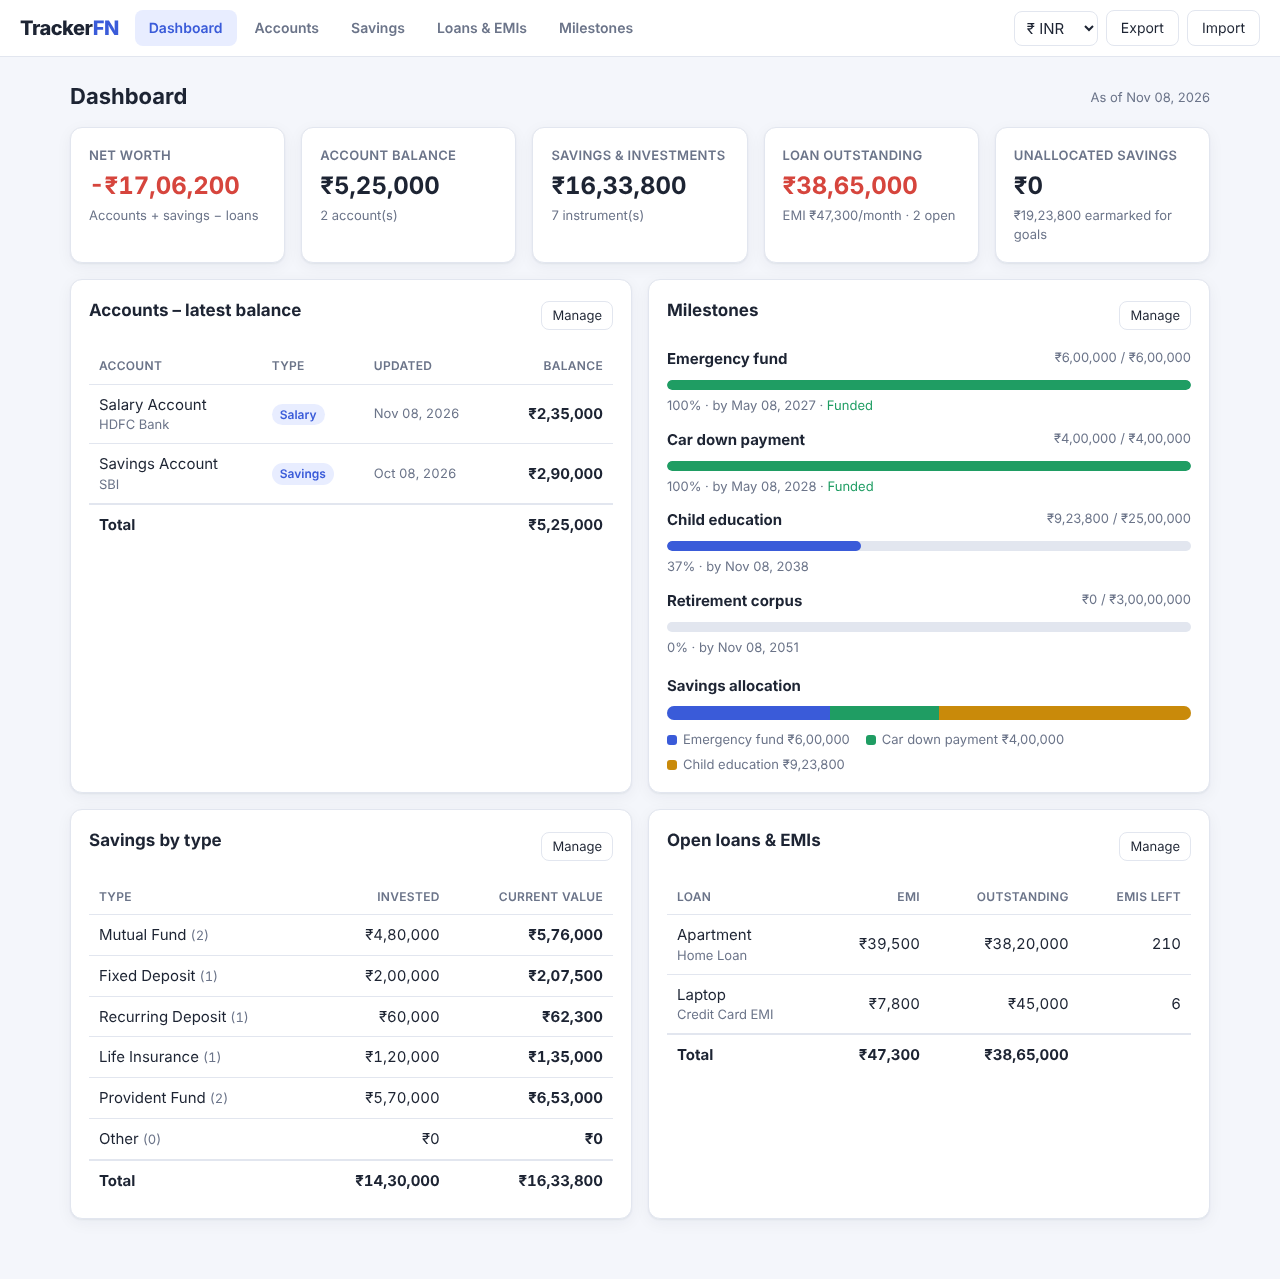
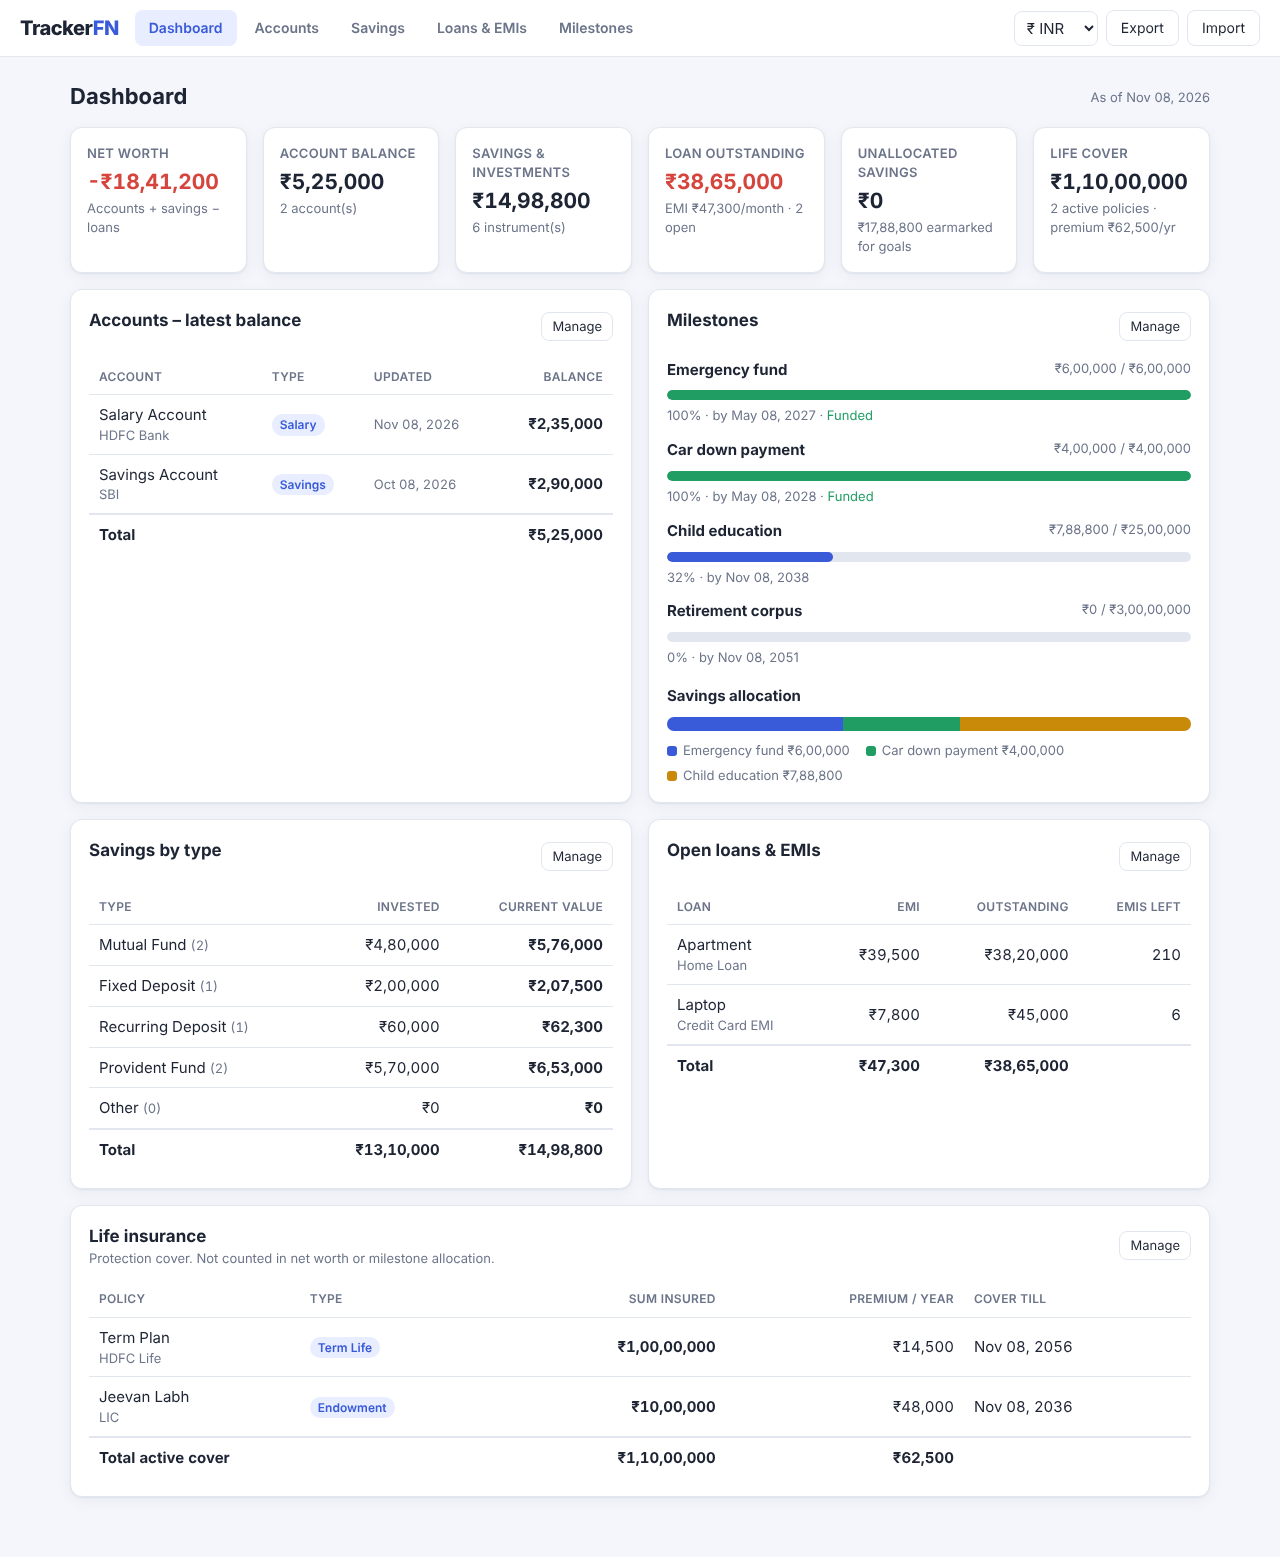
Track life insurance by sum insured, separate from savings
Life insurance policies now have their own model (policy type, sum
insured, premium and frequency, cover end date, nominee) instead of
invested/current value. They are listed in their own section and as a
Life cover card on the dashboard, and are excluded from savings totals,
net worth and the milestone allocation pool. Existing life insurance
entries are migrated on load and their goal allocations released.

Claude-Session: https://claude.ai/code/session_01LZqS9V3qWEPytGiKJB8D8b

diff --git a/js/app.js b/js/app.js
@@ -24,9 +24,27 @@
   function normalize(data) {
     const base = L.emptyState();
     const s = { ...base, ...data, settings: { ...base.settings, ...(data.settings || {}) } };
-    for (const k of ['accounts', 'savings', 'loans', 'milestones']) if (!Array.isArray(s[k])) s[k] = [];
+    for (const k of ['accounts', 'savings', 'insurance', 'loans', 'milestones']) if (!Array.isArray(s[k])) s[k] = [];
+    // Older data kept life insurance as a savings instrument; move it to policies.
+    for (const inv of s.savings.filter((x) => x.type === 'Life Insurance')) {
+      const old = [inv.invested && `invested ${inv.invested}`, inv.currentValue && `value ${inv.currentValue}`].filter(Boolean).join(', ');
+      s.insurance.push({
+        id: inv.id,
+        policyType: 'Other',
+        name: inv.name,
+        provider: inv.provider,
+        sumInsured: '',
+        premium: inv.monthly || '',
+        premiumFrequency: 'Monthly',
+        startDate: inv.startDate || '',
+        endDate: inv.maturityDate || '',
+        notes: [inv.notes, old && `Moved from savings (${old}). Please enter the sum insured.`].filter(Boolean).join(' '),
+      });
+    }
+    s.savings = s.savings.filter((x) => x.type !== 'Life Insurance');
     s.accounts.forEach((a) => { if (!Array.isArray(a.entries)) a.entries = []; });
     s.milestones.forEach((m) => { if (!m.allocations || typeof m.allocations !== 'object') m.allocations = {}; });
+    L.pruneAllocations(s);
     return s;
   }
 
@@ -177,7 +195,8 @@
 
   function renderDashboard() {
     const s = L.summary(state);
-    const isEmpty = !state.accounts.length && !state.savings.length && !state.loans.length && !state.milestones.length;
+    const isEmpty = !state.accounts.length && !state.savings.length && !state.insurance.length && !state.loans.length && !state.milestones.length;
+    const ins = L.insuranceTotals(state.insurance);
 
     let html = `<div class="section-head"><h1>Dashboard</h1><span class="muted small">As of ${fmtDate(L.todayISO())}</span></div>`;
 
@@ -197,6 +216,7 @@
       ${kpi('Savings & investments', money(s.savingsTotal), `${state.savings.length} instrument(s)`)}
       ${kpi('Loan outstanding', money(s.loanOutstanding), `EMI ${money(s.monthlyEmi)}/month · ${s.openLoanCount} open`, s.loanOutstanding ? 'neg' : '')}
       ${kpi('Unallocated savings', money(s.unallocated), `${money(s.allocated)} earmarked for goals`, s.unallocated < 0 ? 'neg' : '')}
+      ${kpi('Life cover', money(ins.sumInsured), `${ins.count} active polic${ins.count === 1 ? 'y' : 'ies'} · premium ${money(ins.annualPremium)}/yr`)}
     </div>`;
 
     // Accounts + milestones
@@ -248,6 +268,15 @@
       html += `</tbody><tfoot><tr><td>Total</td><td class="right">${money(s.monthlyEmi)}</td><td class="right">${money(s.loanOutstanding)}</td><td></td></tr></tfoot></table></div>`;
     } else html += `<div class="empty">No open loans or EMIs. 🎉</div>`;
     html += `</div></div>`;
+
+    html += `<div class="card" style="margin-top:16px"><div class="section-head"><div><h2 style="margin:0">Life insurance</h2>
+      <div class="muted small">Protection cover. Not counted in net worth or milestone allocation.</div></div><button class="sm" data-action="go" data-tab="savings">Manage</button></div>`;
+    if (state.insurance.length) {
+      html += `<div class="table-wrap"><table><thead><tr><th>Policy</th><th>Type</th><th class="right">Sum insured</th><th class="right">Premium / year</th><th>Cover till</th></tr></thead><tbody>`;
+      for (const p of state.insurance) html += insuranceRowShort(p);
+      html += `</tbody><tfoot><tr><td colspan="2">Total active cover</td><td class="right">${money(ins.sumInsured)}</td><td class="right">${money(ins.annualPremium)}</td><td></td></tr></tfoot></table></div>`;
+    } else html += `<div class="empty">No life insurance policies added.</div>`;
+    html += `</div>`;
 
     return html;
   }
@@ -376,7 +405,9 @@
     let html = `<div class="section-head"><div><h1>Savings &amp; Investments</h1><div class="muted small">Total value ${money(total)} · invested ${money(invested)} · gain ${signedMoney(total - invested)}</div></div>
       <button class="primary" data-action="add-savings">+ Add savings</button></div>`;
 
-    html += `<div class="grid kpis">${L.SAVINGS_TYPES.map((t) => kpi(t, money(byType[t].value), `${byType[t].count} holding(s)`)).join('')}</div>`;
+    const ins = L.insuranceTotals(state.insurance);
+    html += `<div class="grid kpis">${L.SAVINGS_TYPES.map((t) => kpi(t, money(byType[t].value), `${byType[t].count} holding(s)`)).join('')}
+      ${kpi('Life cover', money(ins.sumInsured), `${ins.count} active · not in savings total`)}</div>`;
 
     for (const type of L.SAVINGS_TYPES) {
       const items = state.savings.filter((s) => s.type === type);
@@ -390,7 +421,7 @@
       for (const s of items) {
         const src = allocBySource['inv:' + s.id];
         html += `<tr><td><b>${esc(s.name)}</b><div class="muted small">${esc(s.provider || '')}${s.updatedOn ? ' · value as of ' + fmtDate(s.updatedOn) : ''}</div></td>
-          <td class="right">${money(s.invested)}</td><td class="right"><b>${money(s.currentValue)}</b></td><td class="right">${signedMoney(L.savingsGain(s))}</td>
+          <td class="right">${money(s.invested)}</td><td class="right"><b>${money(s.currentValue)}</b></td><td class="right nowrap">${signedMoney(L.savingsGain(s))}</td>
           <td class="right">${s.rate !== '' && s.rate != null ? esc(s.rate) + '%' : '—'}</td>
           <td class="right">${L.num(s.monthly) ? money(s.monthly) : '—'}</td>
           <td class="nowrap">${fmtDate(s.maturityDate)}</td>
@@ -401,7 +432,66 @@
       }
       html += `</tbody></table></div>`;
     }
+
+    html += `<div class="section-head"><div><h2 style="margin:0">Life Insurance</h2>
+      <div class="muted small">Tracked by sum insured. Excluded from savings total, net worth and milestone allocation.</div></div>
+      <button class="sm" data-action="add-insurance">+ Add policy</button></div>`;
+    if (!state.insurance.length) {
+      html += `<div class="empty small">No life insurance policies added.</div>`;
+    } else {
+      html += `<div class="card table-wrap"><table><thead><tr><th>Policy</th><th>Type</th><th class="right">Sum insured</th><th class="right">Premium</th>
+        <th class="right">Per year</th><th>Start</th><th>Cover till</th><th>Nominee</th><th></th></tr></thead><tbody>`;
+      for (const p of state.insurance) {
+        const active = L.policyActive(p);
+        html += `<tr><td><b>${esc(p.name)}</b><div class="muted small">${esc(p.provider || '')}${p.policyNumber ? ' · #' + esc(p.policyNumber) : ''}</div>
+            ${p.notes ? `<div class="muted small">${esc(p.notes)}</div>` : ''}</td>
+          <td><span class="badge">${esc(p.policyType)}</span>${active ? '' : ' <span class="badge grey">Expired</span>'}</td>
+          <td class="right"><b>${p.sumInsured === '' || p.sumInsured == null ? '<span class="badge warn">enter</span>' : money(p.sumInsured)}</b></td>
+          <td class="right nowrap">${L.num(p.premium) ? `${money(p.premium)} <span class="muted small">${esc(p.premiumFrequency || '')}</span>` : '—'}</td>
+          <td class="right">${L.annualPremium(p) ? money(L.annualPremium(p)) : '—'}</td>
+          <td class="nowrap">${fmtDate(p.startDate)}</td><td class="nowrap">${fmtDate(p.endDate)}</td><td>${esc(p.nominee || '—')}</td>
+          <td class="actions"><button class="sm" data-action="edit-insurance" data-id="${p.id}">Edit</button>
+            <button class="sm danger" data-action="delete-insurance" data-id="${p.id}">✕</button></td></tr>`;
+      }
+      html += `</tbody><tfoot><tr><td colspan="2">Total active cover</td><td class="right">${money(ins.sumInsured)}</td><td></td><td class="right">${money(ins.annualPremium)}</td><td colspan="4"></td></tr></tfoot></table></div>`;
+    }
     return html;
+  }
+
+  function insuranceRowShort(p) {
+    const active = L.policyActive(p);
+    return `<tr class="${active ? '' : 'future'}"><td>${esc(p.name)}<div class="muted small">${esc(p.provider || '')}</div></td>
+      <td><span class="badge">${esc(p.policyType)}</span>${active ? '' : ' <span class="badge grey">Expired</span>'}</td>
+      <td class="right"><b>${p.sumInsured === '' || p.sumInsured == null ? '—' : money(p.sumInsured)}</b></td>
+      <td class="right">${L.annualPremium(p) ? money(L.annualPremium(p)) : '—'}</td><td class="nowrap">${fmtDate(p.endDate)}</td></tr>`;
+  }
+
+  const insuranceFields = [
+    { name: 'policyType', label: 'Policy type', type: 'select', options: L.INSURANCE_TYPES, default: 'Term Life' },
+    { name: 'name', label: 'Policy name', required: true, placeholder: 'e.g. Click2Protect Term Plan' },
+    { name: 'provider', label: 'Insurer', placeholder: 'e.g. HDFC Life / LIC' },
+    { name: 'policyNumber', label: 'Policy number', placeholder: 'optional' },
+    { name: 'sumInsured', label: 'Sum insured', type: 'number', min: 0, required: true },
+    { name: 'premium', label: 'Premium amount', type: 'number', min: 0 },
+    { name: 'premiumFrequency', label: 'Premium frequency', type: 'select', options: Object.keys(L.PREMIUM_FREQUENCIES), default: 'Yearly' },
+    { name: 'nominee', label: 'Nominee', placeholder: 'optional' },
+    { name: 'startDate', label: 'Start date', type: 'date' },
+    { name: 'endDate', label: 'Cover till', type: 'date', hint: 'Policy term end / maturity date' },
+    { name: 'notes', label: 'Notes', type: 'textarea', full: true },
+  ];
+
+  function insuranceForm(existing) {
+    openForm({
+      title: existing ? 'Edit life insurance policy' : 'Add life insurance policy',
+      fields: insuranceFields,
+      values: existing || {},
+      onSubmit: (v) => {
+        if (!v.name) return 'Policy name is required';
+        if (v.sumInsured === '' || v.sumInsured < 0) return 'Enter the sum insured';
+        if (existing) Object.assign(existing, v);
+        else state.insurance.push({ id: L.uid(), ...v });
+      },
+    });
   }
 
   const savingsFields = [
@@ -412,7 +502,7 @@
     { name: 'currentValue', label: 'Current value', type: 'number', min: 0, required: true },
     { name: 'updatedOn', label: 'Value as of', type: 'date', default: L.todayISO() },
     { name: 'rate', label: 'Interest / return (% p.a.)', type: 'number', placeholder: 'optional' },
-    { name: 'monthly', label: 'Monthly contribution', type: 'number', min: 0, hint: 'SIP / RD instalment / premium / PF contribution' },
+    { name: 'monthly', label: 'Monthly contribution', type: 'number', min: 0, hint: 'SIP / RD instalment / PF contribution' },
     { name: 'startDate', label: 'Start date', type: 'date' },
     { name: 'maturityDate', label: 'Maturity date', type: 'date' },
     { name: 'notes', label: 'Notes', type: 'textarea', full: true },
@@ -720,9 +810,12 @@
       inv('Mutual Fund', 'Flexi Cap Fund', 'Parag Parikh', 180000, 214000, { monthly: 10000, startDate: ago(18) }),
       inv('Fixed Deposit', 'FD 1 year', 'ICICI Bank', 200000, 207500, { rate: 7.1, startDate: ago(5), maturityDate: L.addMonths(t, 7) }),
       inv('Recurring Deposit', 'RD 24 months', 'SBI', 60000, 62300, { rate: 6.8, monthly: 5000, startDate: ago(12), maturityDate: L.addMonths(t, 12) }),
-      inv('Life Insurance', 'Endowment Plan', 'LIC', 120000, 135000, { monthly: 4000, maturityDate: L.addMonths(t, 120) }),
       inv('Provident Fund', 'EPF', 'EPFO', 420000, 485000, { rate: 8.25, monthly: 7200 }),
       inv('Provident Fund', 'PPF', 'Post Office', 150000, 168000, { rate: 7.1 }),
+    ];
+    s.insurance = [
+      { id: L.uid(), policyType: 'Term Life', name: 'Term Plan', provider: 'HDFC Life', sumInsured: 10000000, premium: 14500, premiumFrequency: 'Yearly', nominee: 'Spouse', startDate: ago(36), endDate: L.addMonths(t, 360) },
+      { id: L.uid(), policyType: 'Endowment', name: 'Jeevan Labh', provider: 'LIC', sumInsured: 1000000, premium: 4000, premiumFrequency: 'Monthly', startDate: ago(60), endDate: L.addMonths(t, 120) },
     ];
     s.loans = [
       { id: L.uid(), status: 'open', type: 'Home Loan', name: 'Apartment', lender: 'SBI Home Loans', principal: 4500000, outstanding: 3820000, emi: 39500, rate: 8.5, startDate: ago(30), tenureMonths: 240 },
@@ -814,6 +907,16 @@
       const s = find('savings', d.id);
       if (confirm(`Delete "${s.name}"? Any goal allocations from it will be removed.`)) {
         state.savings = state.savings.filter((x) => x.id !== d.id);
+        save();
+      }
+    },
+
+    'add-insurance': () => insuranceForm(null),
+    'edit-insurance': (d) => insuranceForm(find('insurance', d.id)),
+    'delete-insurance': (d) => {
+      const p = find('insurance', d.id);
+      if (confirm(`Delete policy "${p.name}"?`)) {
+        state.insurance = state.insurance.filter((x) => x.id !== d.id);
         save();
       }
     },

diff --git a/js/logic.js b/js/logic.js
@@ -10,10 +10,13 @@
     'Mutual Fund',
     'Fixed Deposit',
     'Recurring Deposit',
-    'Life Insurance',
     'Provident Fund',
     'Other',
   ];
+  // Life insurance is protection, not an asset: tracked by sum insured and
+  // premium, and excluded from net worth and milestone allocation.
+  const INSURANCE_TYPES = ['Term Life', 'Endowment', 'Money Back', 'ULIP', 'Whole Life', 'Other'];
+  const PREMIUM_FREQUENCIES = { Monthly: 12, Quarterly: 4, 'Half-yearly': 2, Yearly: 1, Single: 0 };
   const LOAN_TYPES = ['Home Loan', 'Credit Card EMI', 'Personal Loan', 'Car Loan', 'Other'];
   const PRIORITIES = ['High', 'Medium', 'Low'];
 
@@ -39,6 +42,7 @@
       settings: { currency: 'INR' },
       accounts: [],
       savings: [],
+      insurance: [],
       loans: [],
       milestones: [],
     };
@@ -108,6 +112,26 @@
       bucket.value += num(s.currentValue);
     }
     return out;
+  }
+
+  /* ---------------- Life insurance ---------------- */
+
+  function annualPremium(policy) {
+    const perYear = PREMIUM_FREQUENCIES[policy.premiumFrequency];
+    return num(policy.premium) * (perYear == null ? 1 : perYear);
+  }
+
+  function policyActive(policy, asOf) {
+    return !policy.endDate || policy.endDate >= (asOf || todayISO());
+  }
+
+  function insuranceTotals(policies, asOf) {
+    const active = (policies || []).filter((p) => policyActive(p, asOf));
+    return {
+      count: active.length,
+      sumInsured: active.reduce((s, p) => s + num(p.sumInsured), 0),
+      annualPremium: active.reduce((s, p) => s + annualPremium(p), 0),
+    };
   }
 
   /* ---------------- Loans / EMIs ---------------- */
@@ -291,6 +315,8 @@
   const api = {
     ACCOUNT_TYPES,
     SAVINGS_TYPES,
+    INSURANCE_TYPES,
+    PREMIUM_FREQUENCIES,
     LOAN_TYPES,
     PRIORITIES,
     todayISO,
@@ -303,6 +329,9 @@
     nextSeq,
     savingsGain,
     savingsByType,
+    annualPremium,
+    policyActive,
+    insuranceTotals,
     monthsBetween,
     addMonths,
     loanEndDate,

diff --git a/tests/logic.test.js b/tests/logic.test.js
@@ -101,3 +101,24 @@ test('summary net worth = accounts + savings - open loans', () => {
   const sum = L.summary(s, '2026-06-01');
   assert.equal(sum.netWorth, 100 + 999 + 300 - 400);
 });
+
+test('life insurance: annual premium and active cover totals', () => {
+  assert.equal(L.annualPremium({ premium: 1000, premiumFrequency: 'Monthly' }), 12000);
+  assert.equal(L.annualPremium({ premium: 5000, premiumFrequency: 'Half-yearly' }), 10000);
+  assert.equal(L.annualPremium({ premium: 90000, premiumFrequency: 'Single' }), 0);
+  const policies = [
+    { sumInsured: 10000000, premium: 15000, premiumFrequency: 'Yearly', endDate: '2050-01-01' },
+    { sumInsured: 500000, premium: 2000, premiumFrequency: 'Monthly', endDate: '2020-01-01' }, // expired
+  ];
+  assert.deepEqual(L.insuranceTotals(policies, '2026-06-01'), { count: 1, sumInsured: 10000000, annualPremium: 15000 });
+  assert.ok(!L.SAVINGS_TYPES.includes('Life Insurance'));
+});
+
+test('life insurance is excluded from net worth and allocation pool', () => {
+  const s = sampleState();
+  const before = L.summary(s, '2026-06-01');
+  s.insurance = [{ id: 'p1', policyType: 'Term Life', name: 'Term', sumInsured: 10000000, premium: 12000, premiumFrequency: 'Yearly' }];
+  const after = L.summary(s, '2026-06-01');
+  assert.deepEqual(after, before);
+  assert.ok(!L.allocationSources(s, '2026-06-01').some((x) => x.key.endsWith('p1')));
+});

diff --git a/css/styles.css b/css/styles.css
@@ -140,12 +140,13 @@ select, input, textarea {
 }
 
 .grid { display: grid; gap: 16px; }
-.grid.kpis { grid-template-columns: repeat(auto-fit, minmax(190px, 1fr)); }
+.grid.kpis { grid-template-columns: repeat(auto-fit, minmax(160px, 1fr)); }
 .grid.cards { grid-template-columns: repeat(auto-fill, minmax(300px, 1fr)); }
 .grid.two { grid-template-columns: repeat(auto-fit, minmax(340px, 1fr)); }
 
 .kpi .label { color: var(--muted); font-size: 13px; font-weight: 600; text-transform: uppercase; letter-spacing: 0.3px; }
-.kpi .value { font-size: 24px; font-weight: 700; margin-top: 4px; font-variant-numeric: tabular-nums; }
+.kpi { padding: 16px; }
+.kpi .value { font-size: 21px; font-weight: 700; margin-top: 4px; font-variant-numeric: tabular-nums; white-space: nowrap; }
 .kpi .sub { color: var(--muted); font-size: 13px; margin-top: 2px; }
 
 .badge {

diff --git a/README.md b/README.md
@@ -19,8 +19,12 @@ Click **Load sample data** on the empty dashboard to try it out.
 - **Accounts** (Savings / Salary / Current / Other): add dated balance updates
   (credit, debit, or "set balance to"). The latest balance includes every entry up to today.
   Future-dated entries are shown as scheduled. Full history with a running balance.
-- **Savings**: Mutual Funds, Fixed Deposits, Recurring Deposits, Life Insurance, Provident Fund
-  and Other. Tracks amount invested, current value, gain, rate, monthly contribution and maturity date.
+- **Savings**: Mutual Funds, Fixed Deposits, Recurring Deposits, Provident Fund and Other.
+  Tracks amount invested, current value, gain, rate, monthly contribution and maturity date.
+- **Life insurance** (Term, Endowment, ULIP, and others): tracked by **sum insured** and premium, not by amount
+  invested. Shown separately on the dashboard as life cover and **not** counted in net worth or
+  milestone allocation. Life insurance saved by an older version is moved here automatically;
+  enter its sum insured afterwards.
 - **Loans & EMIs**: add home loans, credit card EMIs and other loans. Tracks outstanding amount,
   EMI, rate, tenure, end date and EMIs left. Close or reopen a loan, and see your total monthly EMI.
 - **Milestones**: set goals with a target amount, target date and priority, then allocate savings
